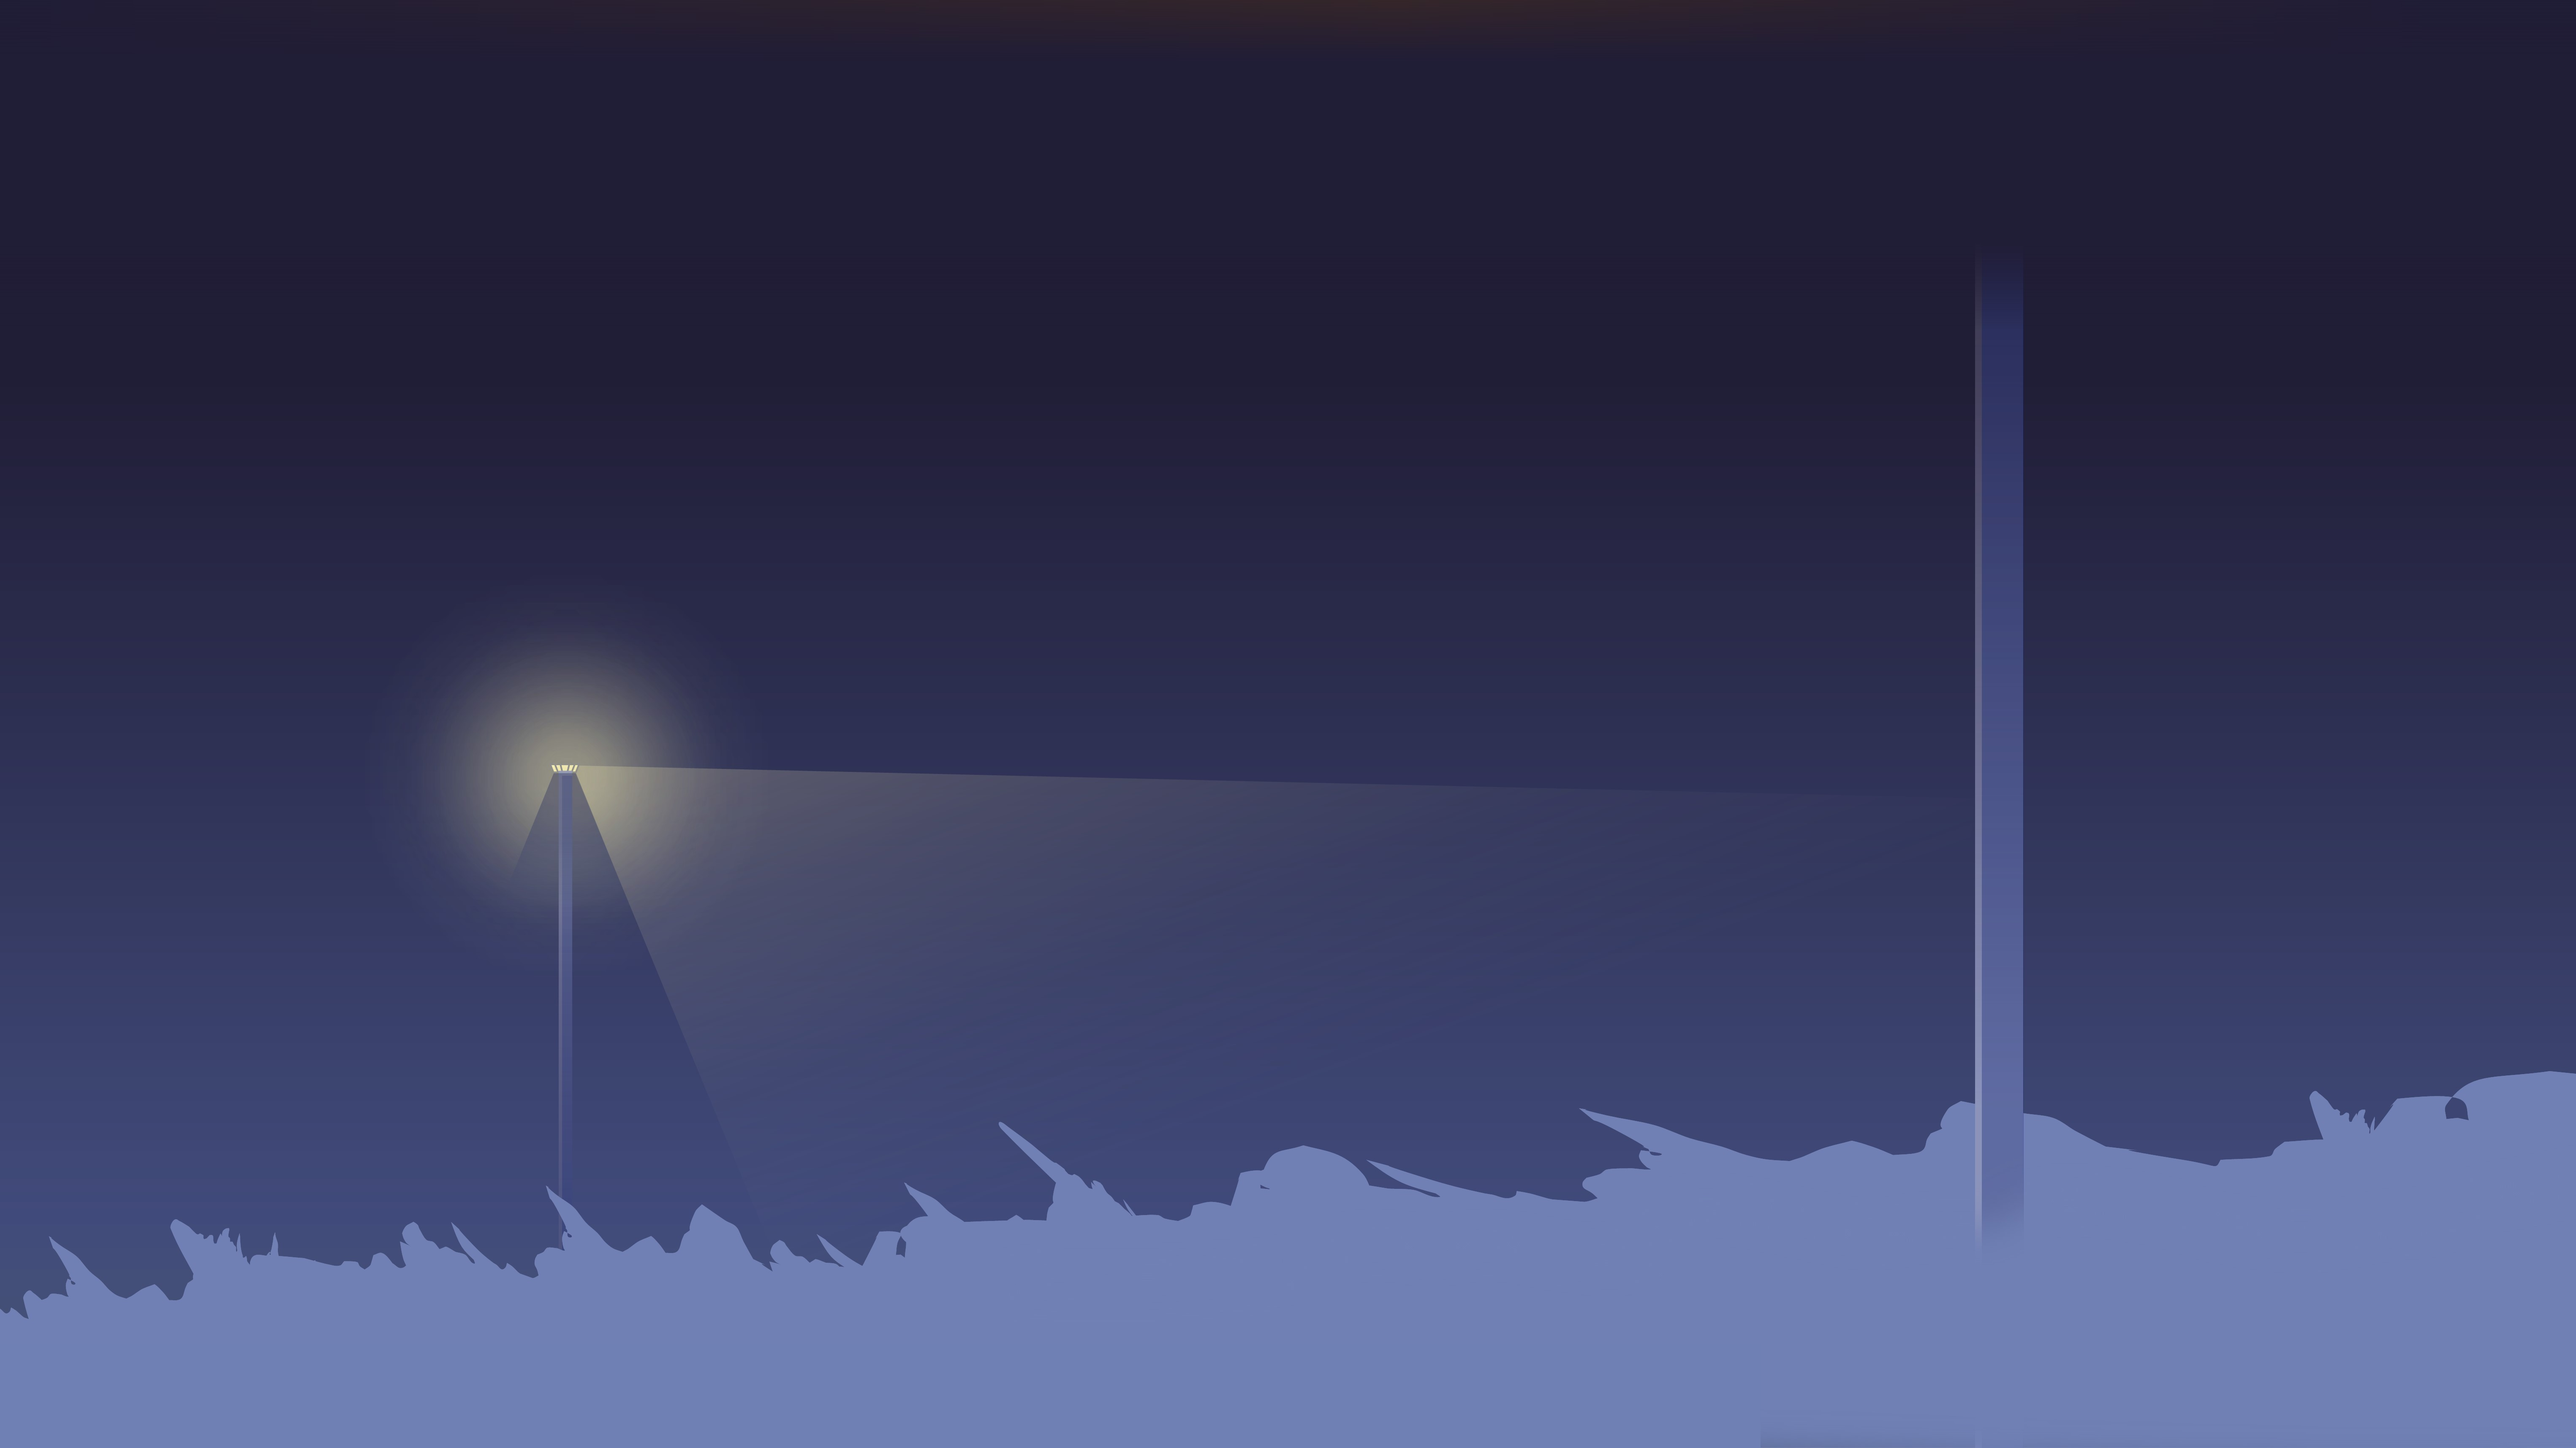
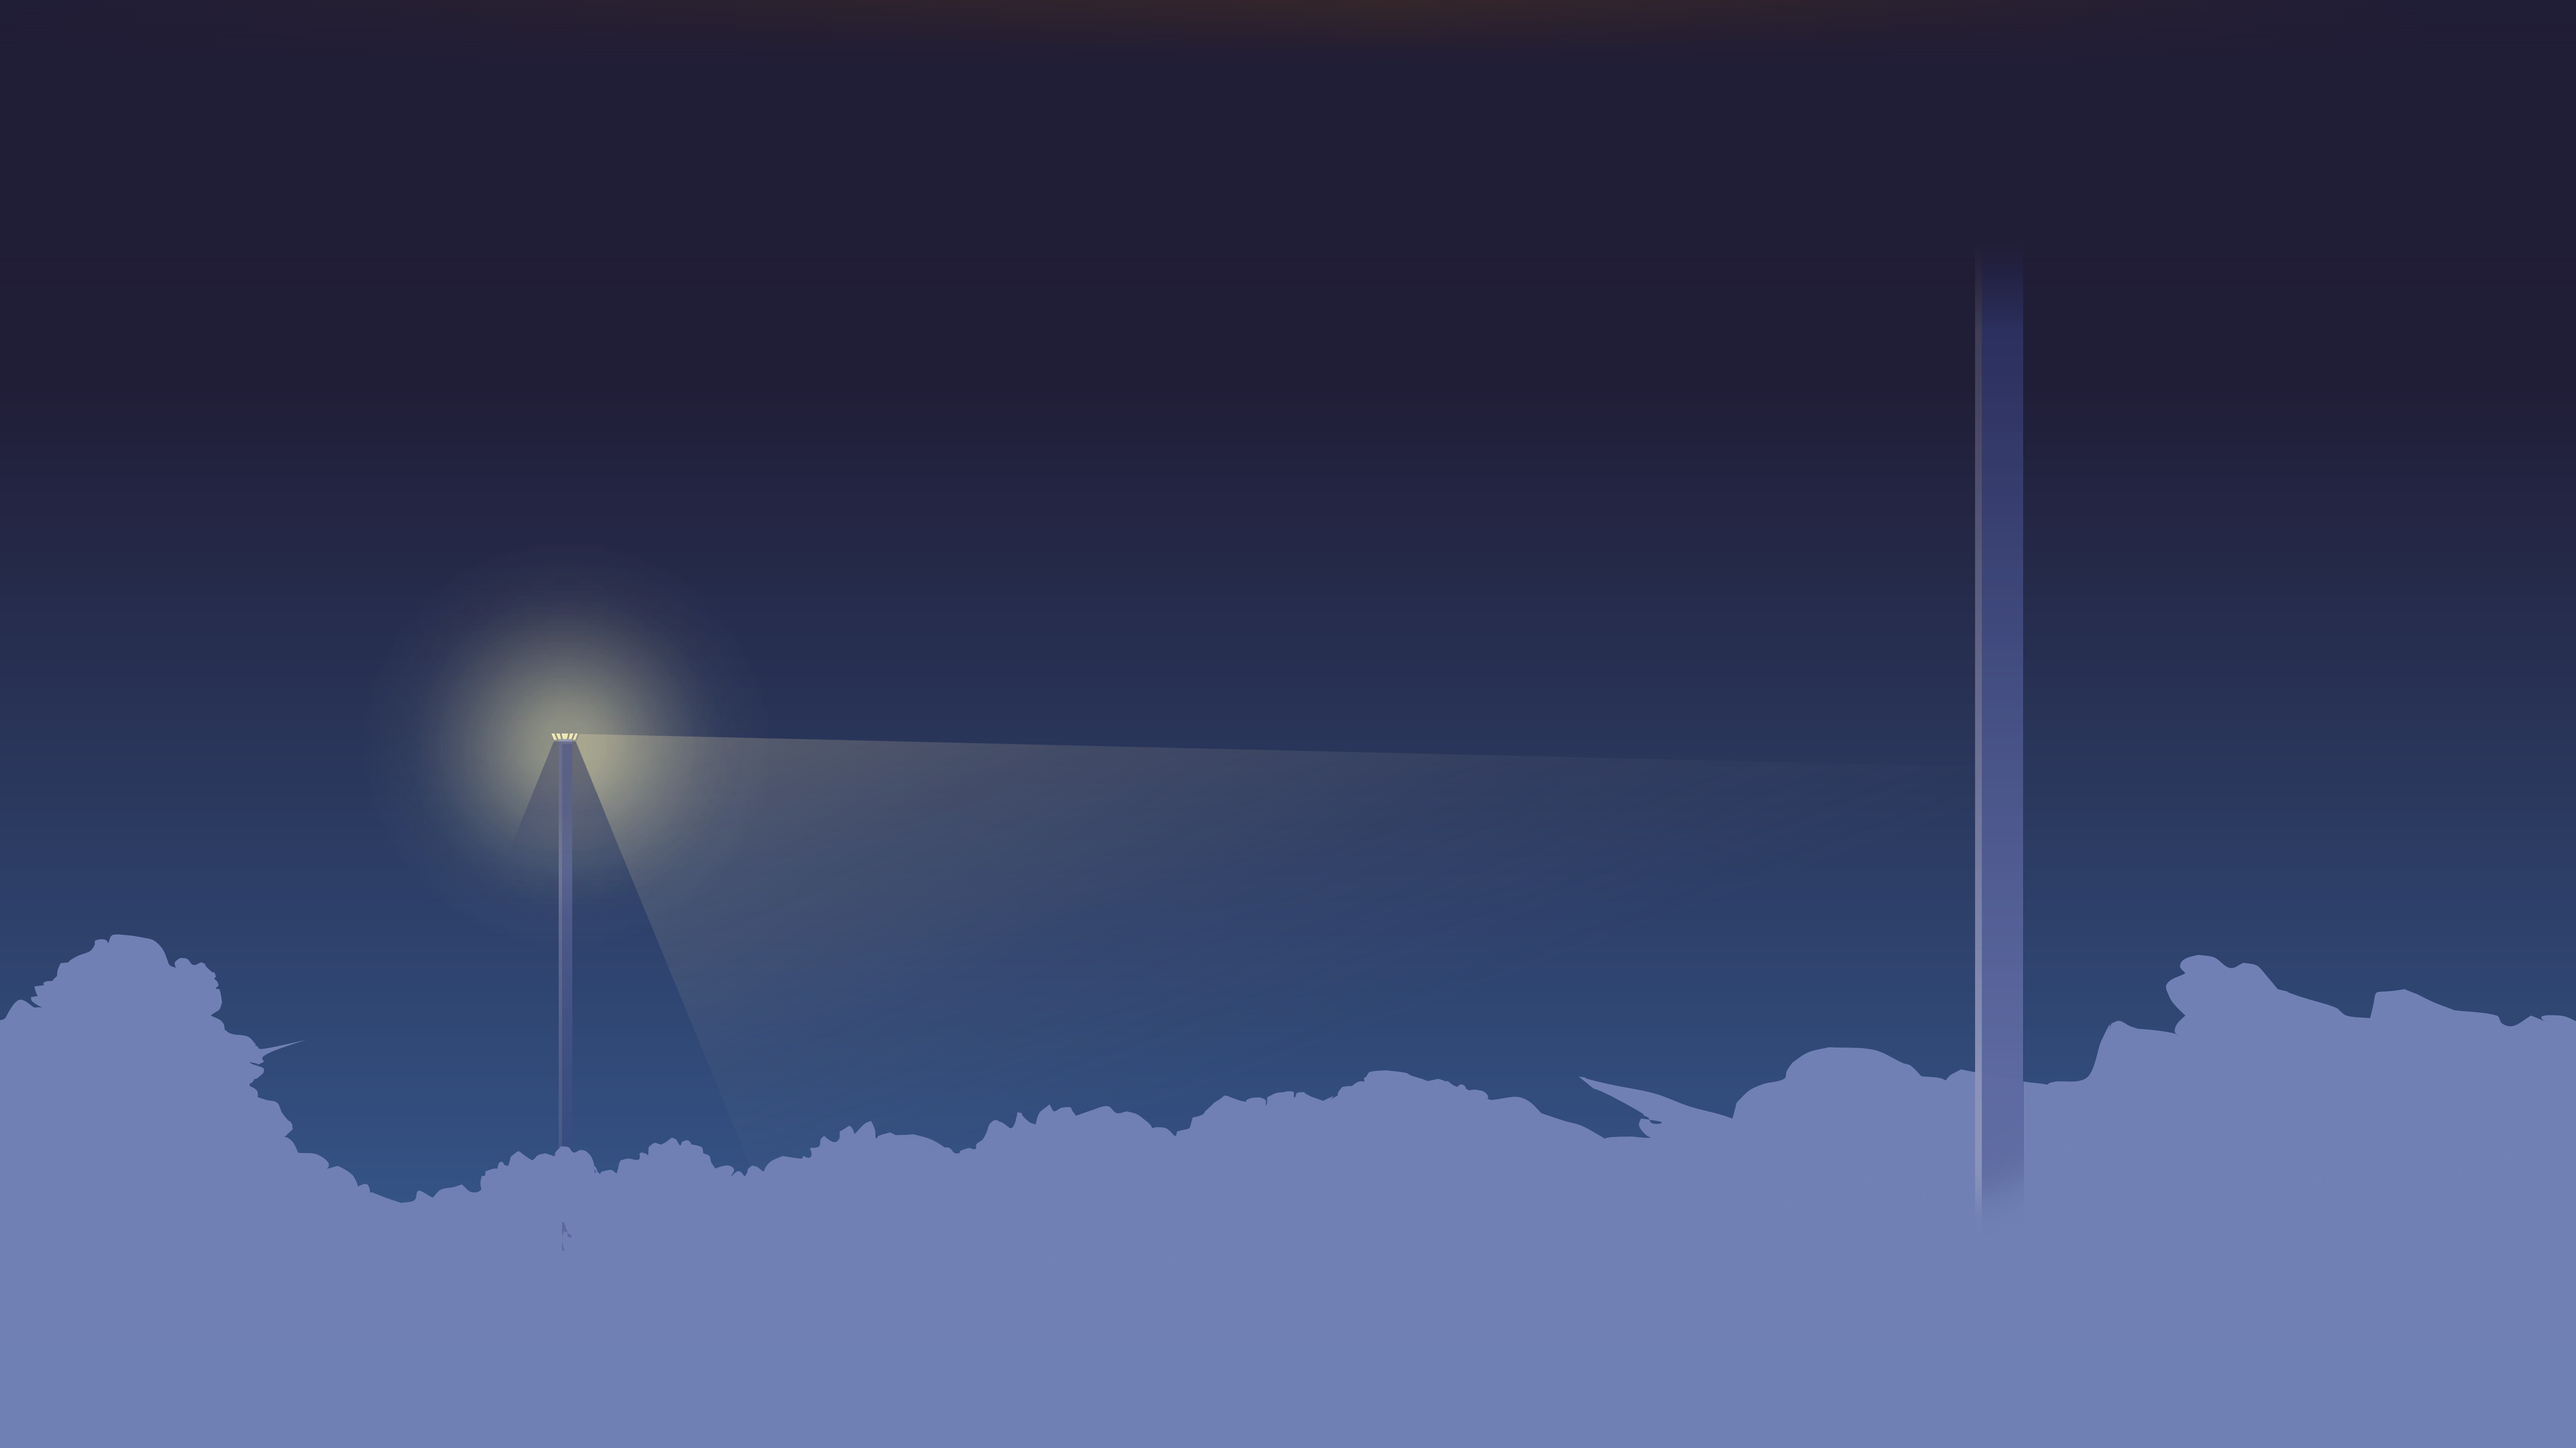
update 2

Changed region(s): [[0.0, 0.6237, 1.0, 0.9044], [0.1869, 0.4678, 0.4361, 0.6237], [0.2492, 0.6237, 0.2803, 0.6861]]

diff --git a/index.html b/index.html
@@ -291,23 +291,26 @@
             <div id="background3-adjust-mobile" class="bg-asist-parallax w-full h-full bg-[url('assost-page.jpg.jpeg')] bg-cover bg-center bg-no-repeat">
             </div>
 
-            <div class="absolute w-screen left-1/2 -translate-x-1/2 bottom-11 lg:-bottom-150 z-10 ">
-                <img src="coudes.png" class="w-[380vw] lg:w-[105vw] max-w-none h-auto object-cover block scale-105 z-50 "/>
-            </div>
         </div>
 
-        <div class="relative w-screen h-screen lg:top-70 ml-[calc(97%-97vw)] flex justify-center items-center  z-30 ">
-            <div id="landscape-parallax" class="w-full h-full bg-[url('cityLandscape.jpg.jpeg')] bg-cover bg-center bg-no-repeat">
-            </div>
-            <div class="absolute w-screen left-1/2 -translate-x-1/2 -bottom-85 z-10 ">
-                <img src="Rooftop.png" class="w-[380vw] lg:w-[105vw] max-w-none h-auto object-cover block scale-105 z-50 "/>
+        <div class="relative w-screen h-screen ml-[calc(97%-97vw)] flex justify-center items-center  z-30 ">
+
+            <div class="absolute w-screen h-[100px] left-1/2 lg:top-0 -translate-x-1/2 -bottom-85 bg-[#7080b4]"></div>
+
+            <div class="absolute w-screen left-1/2 -translate-x-1/2 z-10 lg:-top-30  ">
+                <img src="coudes.png" class="w-[380vw] lg:w-[105vw] max-w-none h-auto object-cover block scale-105 z-50 "/></div>
+
+            <div id="landscape-parallax" class="absolute w-full h-full lg:-bottom-70  bg-[url('cityLandscape.jpg.jpeg')] bg-cover bg-center bg-no-repeat z-60"> </div>
+
+            <div class="absolute w-screen left-1/2 -translate-x-1/2 lg:-bottom-120 z-70 ">
+                <img src="Rooftop.png" class="w-[380vw] lg:w-[105vw] max-w-none h-auto object-cover block scale-105"/>
             </div>
 
         </div>
 
 
 
-        <div class="relative w-screen h-screen ml-[calc(97%-97vw)] z-20 lg:-bottom-105">
+        <div class="relative w-screen h-screen ml-[calc(97%-97vw)] z-20 lg:-bottom-100">
 
             <div class="absolute flex flex-col lg:-bottom-60 inset-0 flex items-center justify-center text-center lg:-left-190 -top-40 px-10 lg:px-275">
                 <h3 class="lg:text-5xl font-bold text-blue-200 z-30 "></h3>
@@ -498,7 +501,7 @@
     });
 
     gsap.to(".bg-asist-parallax", {
-        y: "20%", // Menggeser div background sebesar 20% dari tingginya seiring scroll
+        y: "45%", // Menggeser div background sebesar 20% dari tingginya seiring scroll
         ease: "none",
         scrollTrigger: {
             trigger: ".bg-asist-parallax",
